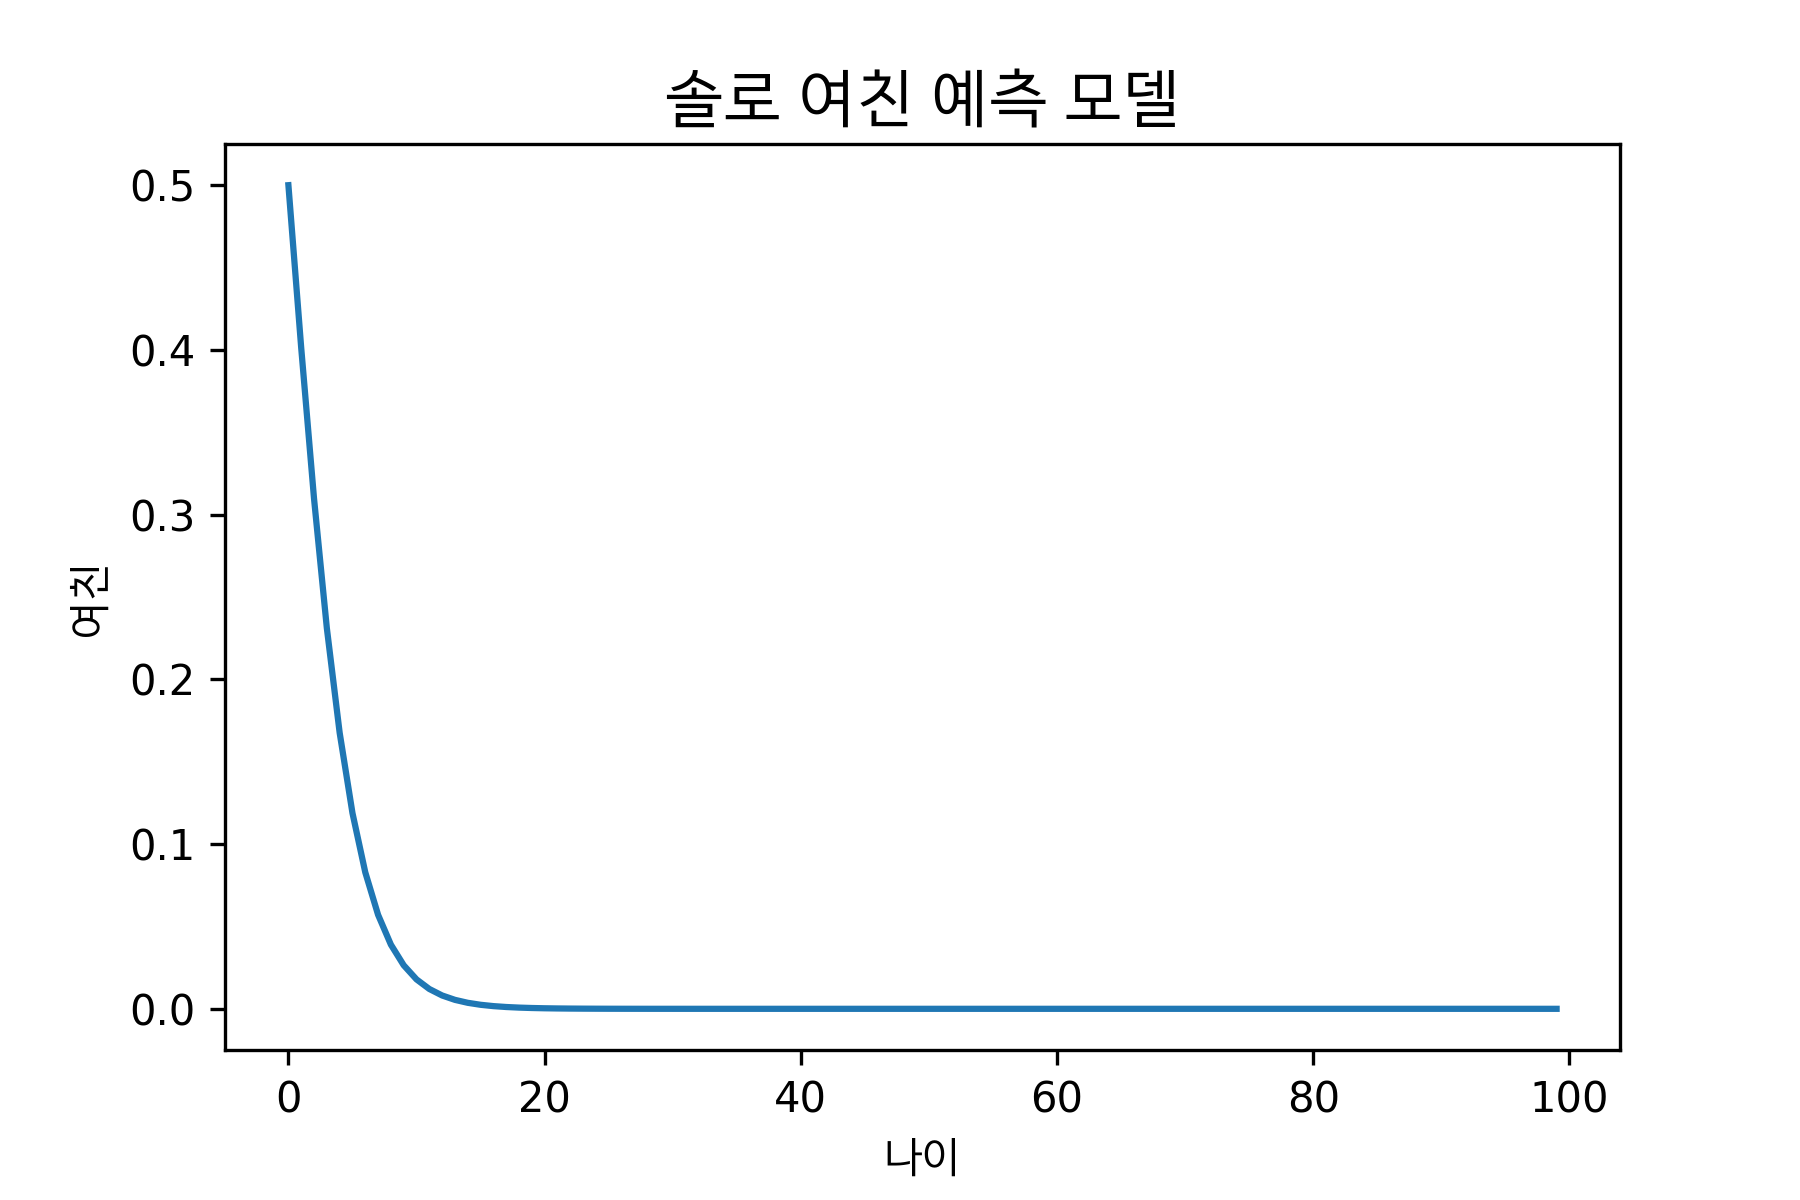
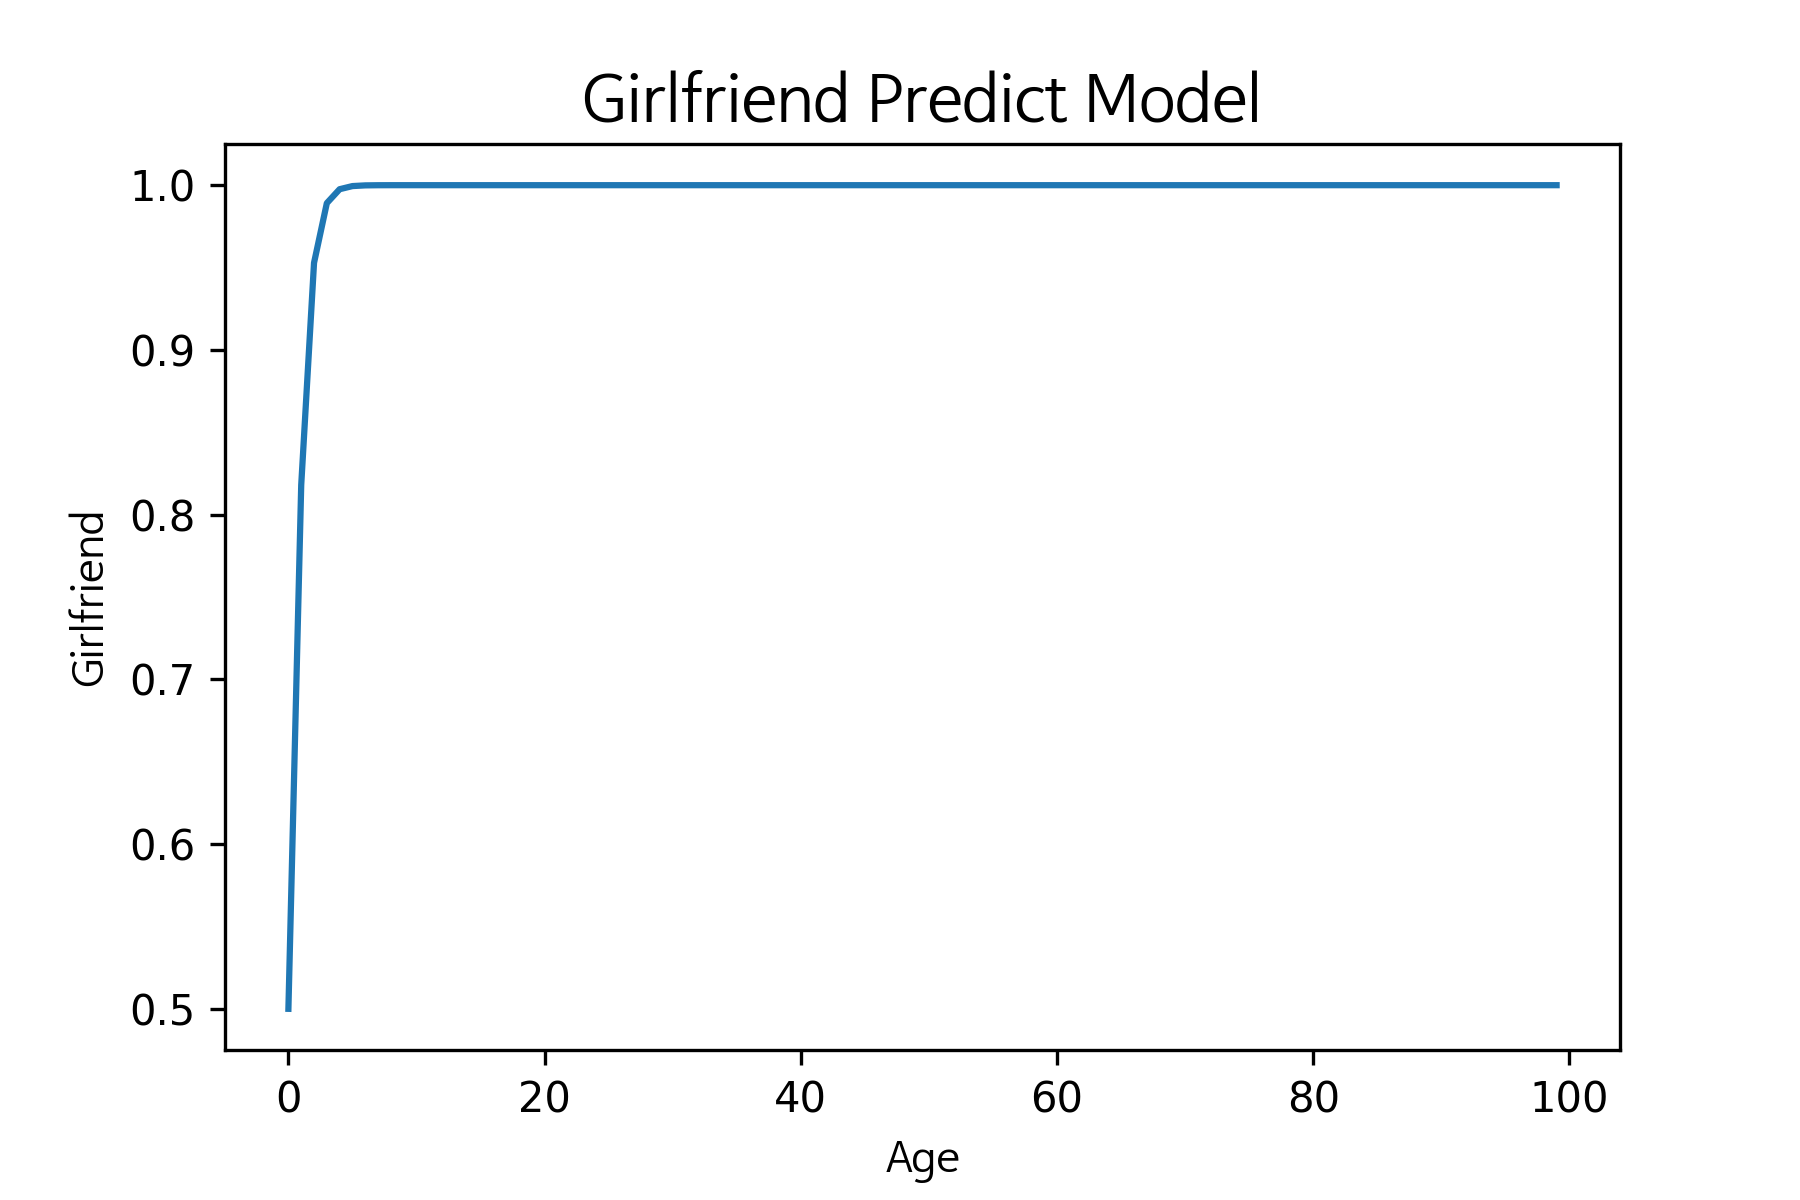
English

diff --git a/README.md b/README.md
@@ -1,13 +1,16 @@
 # solo-girlfriend-model
 
-[@SaidbySolo](https://github.com/SaidBySolo)의 여자친구 데이터를 통한 여자친구가 언제 생길지 예측해보기.
-
-## 학습 데이터
+Use your girlfriend data to predict when you will have a girlfriend.
+## Training Data
 
 [data.csv](./data.csv)
 
-직접 제공해주신 솔로님 감사드립니다!
+Thanks to [@SaidbySolo](https://github.com/SaidBySolo) for providing girlfriend data.
 
-## 학습 결과
+## Result
 
-![그래프](./result.png)
+![graph](./result.png)
+
+## So where do I use this?
+
+idk
